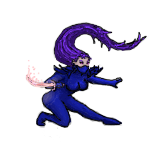
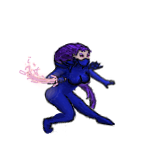
* player sprite view and some placeholder anims

Changed region(s): [[0.122, 0.122, 0.9146, 0.8232]]

diff --git a/src/views/helpers/Player.js b/src/views/helpers/Player.js
@@ -1,5 +1,5 @@
 import ui.View as View;
-import ui.ImageView as ImageView;
+import ui.SpriteView as SpriteView;
 
 exports = Class(View, function(supr) {
 
@@ -9,29 +9,21 @@ exports = Class(View, function(supr) {
 		BG_HEIGHT,
 		PLAYER_WIDTH = 164,
 		PLAYER_HEIGHT = 164,
-		PLAYER_FEET = 125,
+		PLAYER_FEET = 130,
 		GRAVITY = 0.003,
-		AIR_RESISTANCE = 0.0025,
-		WALL_RESISTANCE = 0.006,
+		AIR_RESISTANCE = 0.0032,
+		WALL_RESISTANCE = 0.0064,
 		WALL_WIDTH = 56;
 
 	var STATES = {},
 		STATE_IDLE = 0,
-		STATE_FALLING = 1,
-		STATE_WALL_SLIDING = 2,
-		STATE_DEFAULT = STATE_FALLING;
+		STATE_RUNNING = 1,
+		STATE_FALLING = 2,
+		STATE_LANDING = 3,
+		STATE_WALL_SLIDING = 4,
+		STATE_DEFAULT = STATE_IDLE;
 
-	STATES[STATE_IDLE] = {
-		img: "resources/images/game/rogue/rogue_idle_0001.png"
-	};
-
-	STATES[STATE_FALLING] = {
-		img: "resources/images/game/rogue/rogue_fall_0001.png"
-	};
-
-	STATES[STATE_WALL_SLIDING] = {
-		img: "resources/images/game/rogue/rogue_wallSlide_0001.png"
-	};
+	var PLAYER_URL = "resources/images/game/rogue/rogue";
 
 	this.init = function(opts) {
 		opts.width = PLAYER_WIDTH;
@@ -43,16 +35,44 @@ exports = Class(View, function(supr) {
 		BG_WIDTH = controller.bgWidth;
 		BG_HEIGHT = controller.bgHeight;
 
+		STATES[STATE_IDLE] = {
+			action: "idle",
+			opts: { iterations: Infinity }
+		};
+		STATES[STATE_RUNNING] = {
+			action: "run",
+			opts: { iterations: Infinity }
+		};
+		STATES[STATE_FALLING] = {
+			action: "fall",
+			opts: { iterations: Infinity }
+		};
+		STATES[STATE_LANDING] = {
+			action: "land",
+			opts: {
+				iterations: 1,
+				callback: bind(this, 'finishLanding')
+			},
+			blockInterrupts: true
+		};
+		STATES[STATE_WALL_SLIDING] = {
+			action: "wallSlide",
+			opts: { iterations: Infinity }
+		};
+
 		this.designView();
 		this.reset();
 	};
 
 	this.designView = function() {
-		this.imageView = new ImageView({
+		this.sprite = new SpriteView({
 			parent: this,
 			width: PLAYER_WIDTH,
 			height: PLAYER_HEIGHT,
-			image: STATES[STATE_DEFAULT].img,
+			url: PLAYER_URL,
+			defaultAnimation: STATES[STATE_DEFAULT].action,
+			loop: true,
+			autoStart: false,
 			canHandleEvents: false
 		});
 	};
@@ -70,9 +90,17 @@ exports = Class(View, function(supr) {
 	};
 
 	this.setState = function(state) {
-		this.state = state;
-		this.stateData = STATES[state];
-		this.imageView.setImage(this.stateData.img);
+		if (!this.animating && this.state !== state) {
+			this.state = state;
+			this.stateData = STATES[state];
+			this.sprite.startAnimation(this.stateData.action, this.stateData.opts);
+			this.stateData.blockInterrupts && (this.animating = true);
+		}
+	};
+
+	this.finishLanding = function() {
+		this.animating = false;
+		this.setState(STATE_IDLE);
 	};
 
 	this.step = function(dt) {
@@ -85,7 +113,7 @@ exports = Class(View, function(supr) {
 		// flip player x based on direction
 		if (this.targetX < this.x && !this.flippedX) {
 			this.flippedX = this.style.flipX = true;
-		} else if (this.targetX >= this.x && this.flippedX) {
+		} else if (this.targetX > this.x && this.flippedX) {
 			this.flippedX = this.style.flipX = false;
 		}
 
@@ -102,12 +130,6 @@ exports = Class(View, function(supr) {
 			} else if (this.flippedX && this.x <= WALL_WIDTH) {
 				this.flippedX = this.style.flipX = false;
 			}
-
-			if (this.state !== STATE_WALL_SLIDING) {
-				this.setState(STATE_WALL_SLIDING);
-			}
-		} else if (this.state !== STATE_FALLING && this.vy > 0) {
-			this.setState(STATE_FALLING);
 		}
 
 		var startY = this.y;
@@ -116,7 +138,19 @@ exports = Class(View, function(supr) {
 		this.ay = GRAVITY - this.vy * resistance;
 		this.vy += dt * this.ay / 2;
 		this.y += dt * this.vy / 2;
-		this.checkPlatformCollision(startY);
+		this.falling = !this.checkPlatformCollision(startY);
+
+		if (resistance !== WALL_RESISTANCE) {
+			if (this.falling) {
+				this.setState(STATE_FALLING);
+			} else if (!~~Math.abs(this.targetX - this.x)) {
+				this.setState(STATE_IDLE);
+			} else {
+				this.setState(STATE_RUNNING);
+			}
+		} else if (this.falling) {
+			this.setState(STATE_WALL_SLIDING);
+		}
 
 		return this.y;
 	};
@@ -131,12 +165,17 @@ exports = Class(View, function(supr) {
 			if (startY + PLAYER_FEET <= platY && this.y + PLAYER_FEET >= platY) {
 				if (this.x >= platX && this.x <= platEndX) {
 					// player landing
-					this.setState(STATE_IDLE);
+					if (this.state === STATE_FALLING || this.state === STATE_WALL_SLIDING) {
+						this.setState(STATE_LANDING);
+					}
+
 					this.y = platY - PLAYER_FEET;
 					this.vy = 0;
 					this.ay = 0;
+					return true;
 				}
 			}
 		}
+		return false;
 	};
 });
